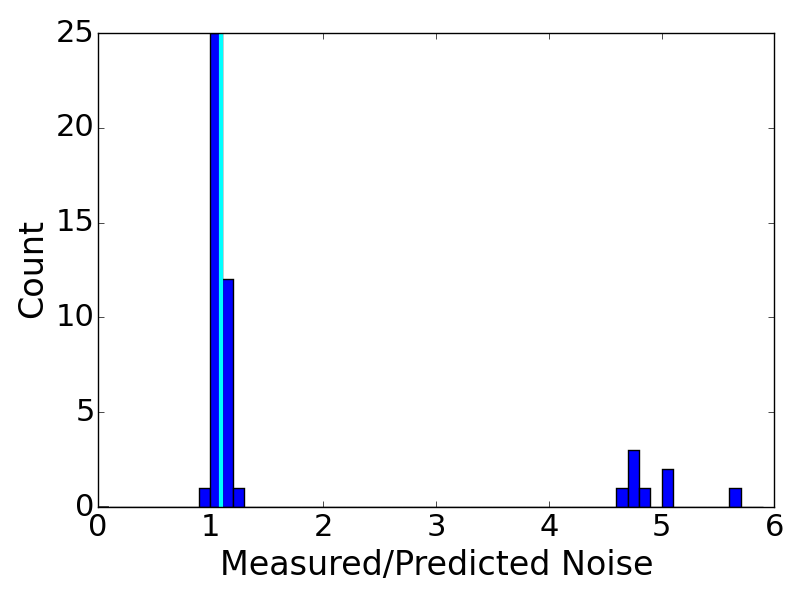
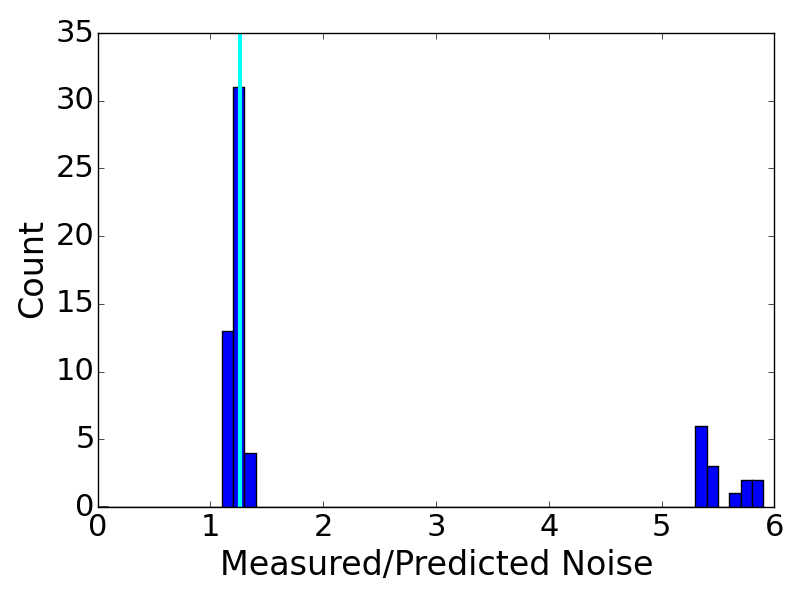
updating dark squid noise figure and text

diff --git a/operation.tex b/operation.tex
@@ -264,16 +264,18 @@ Two more microstrip lines opened during the cryostat cooldown effectively creati
 The dark \ac{SQUID}s each had 16 demodulators set up from 200 to 1200~kHz.
 As was done for \ac{ETC}, the predicted electronic and \ac{SQUID} noise was calculated from the electronic specifications of each element of the readout chain and assumed an intrinsic \ac{SQUID} noise of 3.5~$pA/\sqrt{Hz}$. 
 The measurement in \ac{ADC} counts was converted to current via the \ac{DfMUX} transfer functions and compared to the prediction. 
-The left panel of Figure~\ref{fig:squid_in_flight_noise} shows the noise as a function of time for a single dark \ac{SQUID} channel. 
+The left panel of Figure~\ref{fig:squid_in_flight_noise} is the noise as a function of time for a single dark \ac{SQUID} channel. 
 The right panel of Figure~\ref{fig:squid_in_flight_noise} is the distribution of the median measured-to-predicted noise ratio for all of the dark \ac{SQUID} channels. 
-The median measured-to-predicted ratio of the mode on the left was 1.2. 
+The data bunched together in the mode on the left are the 48 channels from 3 of the dark squids. 
+All 16 channels of the fourth dark squid showed anomalously high noise throughout flight. 
+The median measured-to-predicted ratio of the distribution on the left was 1.2. 
 
 \begin{figure}[htp]
 \begin{center}
 \includegraphics[width=0.48\columnwidth]{figures/board66_wire4_ch09_noise_vs_time.png}
 \includegraphics[width=0.48\columnwidth]{figures/squid_noise_histogram.png}
-\caption[SQUID noise versus time and histogram of all dark squids' median noise]{Left: the \ac{SQUID} noise measured (red) and predicted (black) for one dark \ac{SQUID} channel throughout flight. Right: the distribution of the median measured to predicted noise for all \ac{SQUID} channels. The median (vertical cyan) of the distribution is 1.2. 
-\label{fig:squid_in_flight_nosie} }
+\caption[SQUID noise versus time and histogram of all dark squids' median noise]{Left: the \ac{SQUID} noise measured (red) and predicted (black) for one dark \ac{SQUID} channel throughout flight. Right: the distribution of the median measured to predicted noise for all \ac{SQUID} channels. The median (vertical cyan) of the distribution on the left, the set of well-behaved dark \ac{SQUID}s, is 1.2. 
+\label{fig:squid_in_flight_noise} }
 \end{center}
 \end{figure}
 
